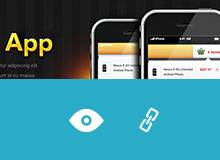
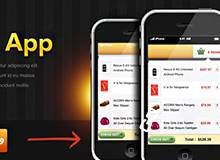
add

diff --git a/portfolio/portfolio.html b/portfolio/portfolio.html
@@ -54,26 +54,122 @@
 
             </div>
 
-            <div class="portfolio__images-section">
-                <img src="../assets/portfolio-1.jpg" alt="portfolio-img" class="image-section__image">
-                <img src="../assets/portfolio-2.jpg" alt="portfolio-img" class="image-section__image">
-                <img src="../assets/portfolio-3.jpg" alt="portfolio-img" class="image-section__image">
-                <img src="../assets/portfolio-4.jpg" alt="portfolio-img" class="image-section__image">
-                <img src="../assets/portfolio-5.jpg" alt="portfolio-img" class="image-section__image">
-                <img src="../assets/portfolio-6.jpg" alt="portfolio-img" class="image-section__image">
-                <img src="../assets/portfolio-7.jpg" alt="portfolio-img" class="image-section__image">
-                <img src="../assets/portfolio-8.jpg" alt="portfolio-img" class="image-section__image">
-                <img src="../assets/portfolio-9.jpg" alt="portfolio-img" class="image-section__image">
-                <img src="../assets/portfolio-10.jpg" alt="portfolio-img" class="image-section__image">
-                <img src="../assets/portfolio-11.jpg" alt="portfolio-img" class="image-section__image">
-                <img src="../assets/portfolio-12.jpg" alt="portfolio-img" class="image-section__image">
-                <img src="../assets/portfolio-13.jpg" alt="portfolio-img" class="image-section__image">
-                <img src="../assets/portfolio-14.jpg" alt="portfolio-img" class="image-section__image">
-                <img src="../assets/portfolio-15.jpg" alt="portfolio-img" class="image-section__image">
-                <img src="../assets/portfolio-16.jpg" alt="portfolio-img" class="image-section__image">
-                
-            </div>
+            <div class="content__slider-images">
+                <div class="slider-images__img-box">
+                  <img src="../assets/portfolio-1.jpg" alt="slider-img1" class="img-box__img">
+                  <div class="overlay">
+                    <a href="#"><i class="fa-solid fa-eye"></i> <i class="fa-solid fa-link"></i></a>
+                  </div>
+                </div>
 
+                <div class="slider-images__img-box">
+                    <img src="../assets/portfolio-2.jpg" alt="slider-img1" class="img-box__img">
+                    <div class="overlay">
+                      <a href="#"><i class="fa-solid fa-eye"></i> <i class="fa-solid fa-link"></i></a>
+                    </div>
+                </div>
+
+                <div class="slider-images__img-box">
+                    <img src="../assets/portfolio-3.jpg" alt="slider-img1" class="img-box__img">
+                    <div class="overlay">
+                      <a href="#"><i class="fa-solid fa-eye"></i> <i class="fa-solid fa-link"></i></a>
+                    </div>
+                </div>
+
+                <div class="slider-images__img-box">
+                    <img src="../assets/portfolio-4.jpg" alt="slider-img1" class="img-box__img">
+                    <div class="overlay">
+                      <a href="#"><i class="fa-solid fa-eye"></i> <i class="fa-solid fa-link"></i></a>
+                    </div>
+                </div>
+
+                <div class="slider-images__img-box">
+                    <img src="../assets/portfolio-5.jpg" alt="slider-img1" class="img-box__img">
+                    <div class="overlay">
+                      <a href="#"><i class="fa-solid fa-eye"></i> <i class="fa-solid fa-link"></i></a>
+                    </div>
+                </div>
+
+                <div class="slider-images__img-box">
+                    <img src="../assets/portfolio-6.jpg" alt="slider-img1" class="img-box__img">
+                    <div class="overlay">
+                      <a href="#"><i class="fa-solid fa-eye"></i> <i class="fa-solid fa-link"></i></a>
+                    </div>
+                </div>
+
+                <div class="slider-images__img-box">
+                    <img src="../assets/portfolio-7.jpg" alt="slider-img1" class="img-box__img">
+                    <div class="overlay">
+                      <a href="#"><i class="fa-solid fa-eye"></i> <i class="fa-solid fa-link"></i></a>
+                    </div>
+                </div>
+
+                <div class="slider-images__img-box">
+                    <img src="../assets/portfolio-8.jpg" alt="slider-img1" class="img-box__img">
+                    <div class="overlay">
+                      <a href="#"><i class="fa-solid fa-eye"></i> <i class="fa-solid fa-link"></i></a>
+                    </div>
+                </div>
+
+                <div class="slider-images__img-box">
+                    <img src="../assets/portfolio-9.jpg" alt="slider-img1" class="img-box__img">
+                    <div class="overlay">
+                      <a href="#"><i class="fa-solid fa-eye"></i> <i class="fa-solid fa-link"></i></a>
+                    </div>
+                </div>
+
+                <div class="slider-images__img-box">
+                    <img src="../assets/portfolio-10.jpg" alt="slider-img1" class="img-box__img">
+                    <div class="overlay">
+                      <a href="#"><i class="fa-solid fa-eye"></i> <i class="fa-solid fa-link"></i></a>
+                    </div>
+                </div>
+
+                <div class="slider-images__img-box">
+                    <img src="../assets/portfolio-11.jpg" alt="slider-img1" class="img-box__img">
+                    <div class="overlay">
+                      <a href="#"><i class="fa-solid fa-eye"></i> <i class="fa-solid fa-link"></i></a>
+                    </div>
+                </div>
+
+                <div class="slider-images__img-box">
+                    <img src="../assets/portfolio-12.jpg" alt="slider-img1" class="img-box__img">
+                    <div class="overlay">
+                      <a href="#"><i class="fa-solid fa-eye"></i> <i class="fa-solid fa-link"></i></a>
+                    </div>
+                </div>
+
+                <div class="slider-images__img-box">
+                    <img src="../assets/portfolio-13.jpg" alt="slider-img1" class="img-box__img">
+                    <div class="overlay">
+                      <a href="#"><i class="fa-solid fa-eye"></i> <i class="fa-solid fa-link"></i></a>
+                    </div>
+                </div>
+
+                <div class="slider-images__img-box">
+                    <img src="../assets/portfolio-14.jpg" alt="slider-img1" class="img-box__img">
+                    <div class="overlay">
+                      <a href="#"><i class="fa-solid fa-eye"></i> <i class="fa-solid fa-link"></i></a>
+                    </div>
+                </div>
+
+                <div class="slider-images__img-box">
+                    <img src="../assets/portfolio-15.jpg" alt="slider-img1" class="img-box__img">
+                    <div class="overlay">
+                      <a href="#"><i class="fa-solid fa-eye"></i> <i class="fa-solid fa-link"></i></a>
+                    </div>
+                </div>
+
+                <div class="slider-images__img-box">
+                    <img src="../assets/portfolio-16.jpg" alt="slider-img1" class="img-box__img">
+                    <div class="overlay">
+                      <a href="#"><i class="fa-solid fa-eye"></i> <i class="fa-solid fa-link"></i></a>
+                    </div>
+                </div>
+            </div>
+            
+
+            
             <div class="portfolio__pagination">
                 <ul>
                     <li class="pagination__number"><a href="#" class="pagination-link">1</a></li>

diff --git a/style.css b/style.css
@@ -172,9 +172,10 @@
     padding-bottom: 40px;
  }
  .content__slider-title{
-    padding: 20px 0;
+    padding: 25px 0 15px;
     display: flex;
     justify-content: space-between;
+    border-bottom: 1px solid #b4bac5;
  }
 
  .arrow-title__arrow{
@@ -200,16 +201,20 @@
  .content__slider-images{
    display: flex;
    justify-content: space-between;
+   flex-wrap: wrap;
+   border-bottom: 1px solid #b4bac5;
+   padding-top: 20px;
  }
 
  .slider-images__img-box{
    position: relative;
    width: auto;
+   margin-bottom: 40px;
+  
 
  }
  
  .img-box__img{
-   display: inline block;
    width:auto;
    height: auto;
  }
@@ -220,7 +225,7 @@
    width:220px;
    opacity: 0;
    transition: 1.0s ease;
-   background-color: #008CBA;
+   background-color: #2aacc8;
    display: flex;
    justify-content: center;
    align-items: center;
@@ -238,9 +243,6 @@
    font-size: 25px;
 
 }
- 
-
-
 
 .content__testimonials-client{
    padding:20px 0 40px;
@@ -303,16 +305,11 @@
 .client-images__box{
    display: flex;
    flex-wrap: wrap;
-
 }
 
 #client-img{
 display: block;
 }
-
-
-
-
 .download-container{
    background-color:#e8fcfe;
    border: 1px solid #2aacc8;
@@ -545,7 +542,7 @@ display: block;
 }
 
 .portfolio__icon-title{
-  padding: 35px 0 10px;
+  padding-top: 30px;
 }
 .icon-title__brush-icon{
   display: inline-block;
@@ -591,17 +588,10 @@ display: block;
    padding: 10px 15px;
  }
 
- .portfolio__images-section{
-   display: flex;
-   flex-wrap: wrap;
-   justify-content: space-between;
-   padding-top: 40px;
-   border-bottom:1px solid #e8ebf1;
+ 
 
- }
- .image-section__image{
-   margin-bottom: 40px;
- }
+
+
  
  .portfolio__pagination{
    display: flex;
